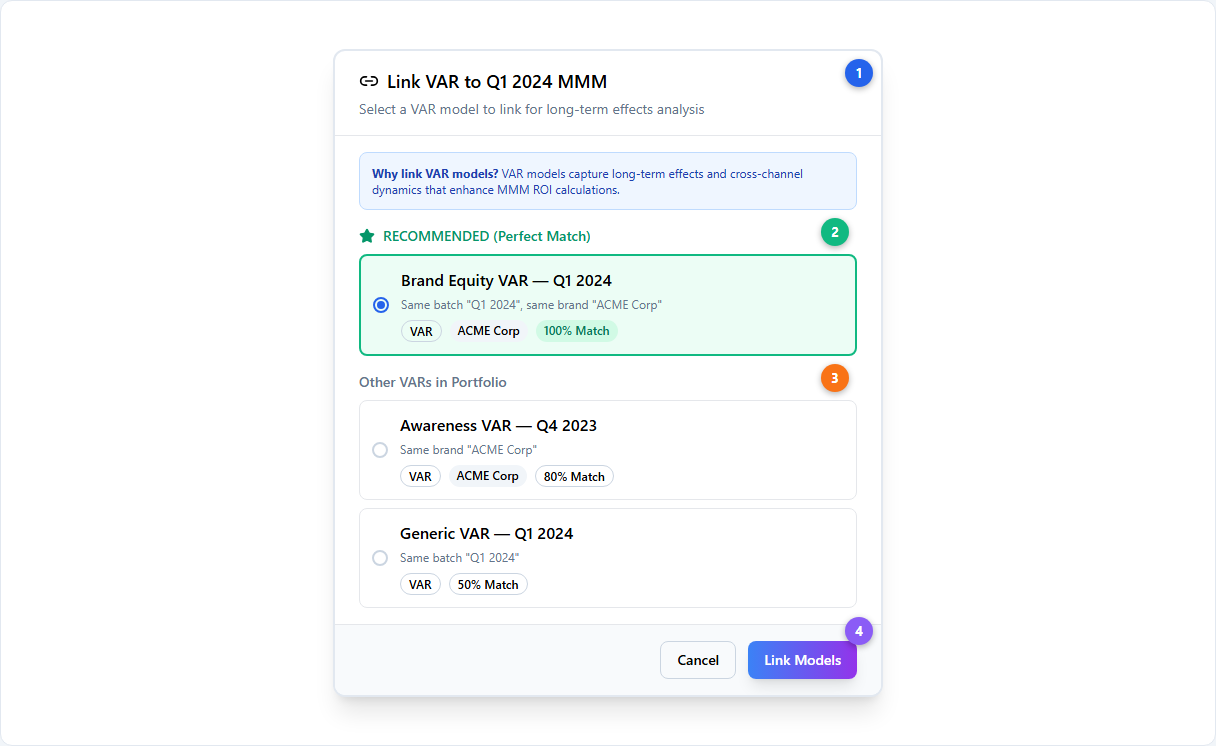
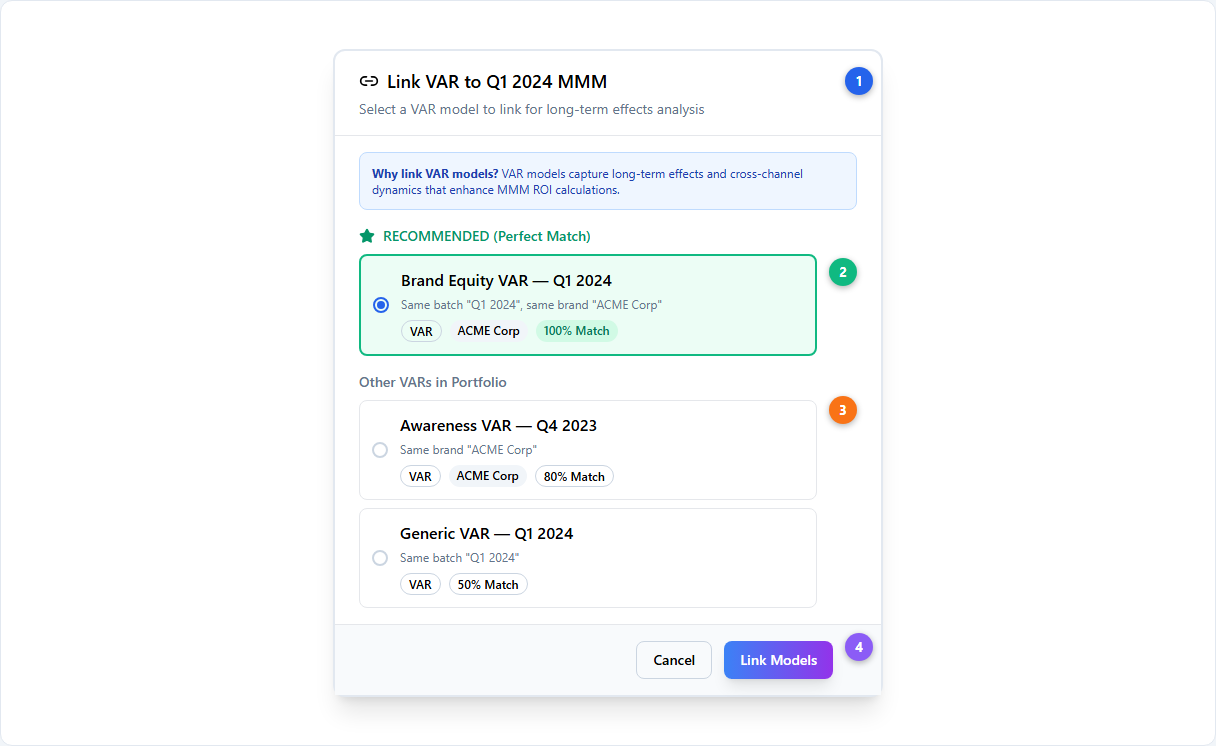
docs: fix annotation positioning and add interpretation guidance to long-term effects
- Fix all annotation positions to 8pt grid (multiples of 8px only)
- Use inline flex/static annotations instead of absolute positioning where
  annotations risk overlapping text or clipping at edges
- Use inline legend below tables instead of overlaid circles
- Add more core concept cross-references (adstock, saturation, priors,
  incrementality) on first mention
- Expand interpretation guidance for elasticities with channel comparison tips
- Add more actionable budget decision guidance (channel mix, VAR-MMM linking)
- Re-capture all 8 screenshots with corrected annotation positions

diff --git a/docs/platform-guide/long-term-effects.md b/docs/platform-guide/long-term-effects.md
@@ -1,6 +1,6 @@
 # Long-Term Effects --- Modeling Lasting Brand Impact
 
-Standard Marketing Mix Models measure short-term media impact: the incremental revenue generated within a few weeks of spend. But some marketing activities --- brand campaigns, sponsorships, sustained awareness efforts --- produce effects that persist for months or longer. The Long-Term Effects module captures this extended impact using [Vector AutoRegression (VAR)](../core-concepts/var-modeling.md) to trace how marketing spend flows through brand-building variables (awareness, consideration, equity) to ultimately drive revenue.
+Standard Marketing Mix Models measure short-term media impact: the incremental revenue generated within a few weeks of [adstock decay](../core-concepts/adstock-effects.md). But some marketing activities --- brand campaigns, sponsorships, sustained awareness efforts --- produce effects that persist for months or longer. The Long-Term Effects module captures this extended impact using [Vector AutoRegression (VAR)](../core-concepts/var-modeling.md) to trace how marketing spend flows through brand-building variables (awareness, consideration, equity) to ultimately drive revenue, complementing the [saturation](../core-concepts/saturation-curves.md) and carryover modeling of your standard MMM.
 
 ---
 
@@ -41,13 +41,13 @@ Before building your VAR model, you configure the long-run effects analysis. Thi
 | Base variable | Last endogenous variable | Any endogenous | The ultimate target metric (usually sales or long-term base) |
 | Equity variables | All other endogenous | Auto-derived | Brand/mindset metrics that mediate marketing effects |
 | Horizon | 156 periods | 52--520 | ~3 years weekly for cumulative IRF |
-| Confidence interval | 95% | 90%, 95%, 99% | Width of [credible intervals](../core-concepts/bayesian-modeling.md) |
+| Confidence interval | 95% | 90%, 95%, 99% | Width of [Bayesian credible intervals](../core-concepts/bayesian-modeling.md) (HDI bounds) |
 
 ---
 
 ## Interpreting Impulse Response Functions
 
-Impulse Response Functions (IRFs) show how each variable responds over time when another variable receives a sudden one-unit "shock". This is the foundation for understanding how marketing spend ripples through your brand metrics.
+Impulse Response Functions (IRFs) show how each variable responds over time when another variable receives a sudden one-unit "shock". This is the foundation for understanding how marketing spend ripples through your brand metrics. Unlike standard MMM [priors](../core-concepts/priors-and-distributions.md) which capture short-term response shapes, IRFs reveal the full dynamic system of cross-variable effects.
 
 ![IRF grid view](./images/lte-irf.png)
 
@@ -123,10 +123,11 @@ The primary results view showing each channel's total persistent effect on your 
 
 **How to interpret elasticities:**
 
-- **Brand builders** (like TV with 90% via equity): Most impact flows through brand metrics. These channels build long-term value that standard [adstock decay](../core-concepts/adstock-effects.md) misses
-- **Performance channels** (like Google Search with 75% direct): Most impact is immediate and well-captured by the standard MMM. Long-run effects are smaller
-- **Wider confidence intervals**: Indicate more uncertainty. Collect more data or integrate [lift tests](../core-concepts/incrementality.md) to narrow them
+- **Brand builders** (like TV with 90% via equity): Most impact flows through brand metrics. These channels build long-term value that standard adstock decay misses. Consider increasing budget allocation beyond what short-term ROAS suggests
+- **Performance channels** (like Google Search with 75% direct): Most impact is immediate and well-captured by the standard MMM. Long-run effects are smaller but still present
+- **Wider confidence intervals**: Indicate more uncertainty in the estimate. Collect more data or integrate [lift tests](../core-concepts/incrementality.md) to narrow them
 - **Elasticity magnitude**: 0.38 means a sustained 1% increase in that channel drives a cumulative 0.38% increase in your base variable over the full horizon
+- **Comparing channels**: Sort by elasticity to rank channels by total long-run impact. A channel with a lower short-term ROAS but higher long-run elasticity may be undervalued
 
 ### C-Multipliers Tab
 
@@ -208,10 +209,12 @@ For portfolios with many models, the **AutoLink** feature in the portfolio view 
 
 Long-term effects fundamentally change how you think about [budget optimization](./budget-optimization.md):
 
-- **Brand-building channels** (high Via % in Path Breakdown) may warrant higher spend than short-term ROAS alone suggests, because their full return materializes over months through brand equity
+- **Brand-building channels** (high Via % in Path Breakdown) may warrant higher spend than short-term ROAS alone suggests, because their full return materializes over months through brand equity. Use the elasticities to quantify the gap between short-term and total return
 - **Performance channels** (high Direct %) deliver most of their value immediately and are well-captured by standard MMM optimization with [saturation curves](../core-concepts/saturation-curves.md)
-- **Cutting brand spend** saves money immediately but erodes the equity variables that support future revenue. The long-run elasticity quantifies exactly how much future revenue is at risk
+- **Cutting brand spend** saves money immediately but erodes the equity variables that support future revenue. The long-run elasticity quantifies exactly how much future revenue is at risk per % of spend reduction
 - **NPV analysis** helps justify brand investment to stakeholders by translating long-run effects into financial terms with appropriate discounting
+- **Channel mix decisions**: Compare Path Breakdown across channels to understand which drives awareness vs consideration vs equity, then align channel mix with your brand's weakest equity dimension
+- **When linking VAR to MMM**: The linked long-run effects automatically enhance your MMM's [measurement](./measurement.md) results, showing total (short + long) channel contributions rather than short-term only
 
 ---
 
